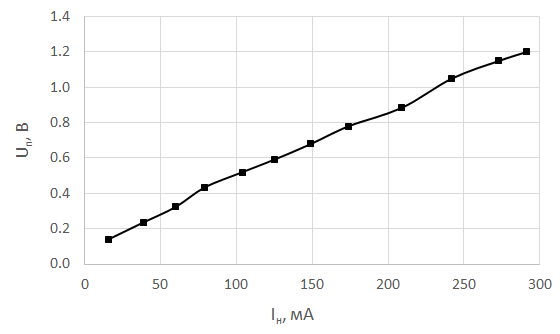
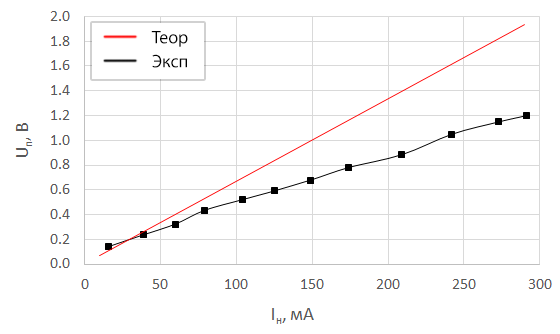
theoretical dependencies

diff --git a/lab3/lab3.tex b/lab3/lab3.tex
@@ -85,7 +85,17 @@ U_\text{п max} = \frac{I_\text{н} \cdot \Delta t}{C\text{ф}} = \frac{120 \cdo
 
 \subsection{Аппроксимация}
 
-%TODO
+Для полученной экспериментальным путем ВАХ диода была выполнена аппроксимация с использованием уравнения Шокли:
+\begin{equation}
+I = I_0 (e^{\frac{U}{m \phi_t}} - 1).
+\end{equation}
+Для точек 
+$\{\Delta U=0.53\ \text{В}, I_\text{д}=29.3\ \text{мА}\}$ 
+и 
+$\{\Delta U=0.73\ \text{В}, I_\text{д}=269.3\ \text{мА}\}$ 
+из набора экспериментальных данных была получена система уравнений, решением которой являются значения 
+$I_0 = 7.99710 \cdot 10^{-5}$ А, $m =  3.47400$.
+
 
 \section{Экспериментально снятые зависимости}
 
@@ -136,7 +146,7 @@ U_\text{п max} = \frac{I_\text{н} \cdot \Delta t}{C\text{ф}} = \frac{120 \cdo
 
 \begin{figure}[H]
 	\begin{center}
-		\includegraphics[width=15cm,height=9cm]{img/1}
+		\includegraphics[width=15cm]{img/1}
 		\caption{Эксперементальная ВАХ полупроводникового диода}
 		\label{g:1} % название для ссылок внутри кода
 	\end{center}
@@ -172,7 +182,7 @@ U_\text{п max} = \frac{I_\text{н} \cdot \Delta t}{C\text{ф}} = \frac{120 \cdo
 
 \begin{figure}[H]
 	\begin{center}
-		\includegraphics[width=15cm,height=9cm]{img/2}
+		\includegraphics[width=15cm]{img/2}
 		\caption{Зависимость пульсации напряжения от силы тока нагрузки для однополупериодного выпрямителя}
 		\label{g:2} % название для ссылок внутри кода
 	\end{center}
@@ -180,7 +190,7 @@ U_\text{п max} = \frac{I_\text{н} \cdot \Delta t}{C\text{ф}} = \frac{120 \cdo
 
 \begin{figure}[H]
 	\begin{center}
-		\includegraphics[width=15cm,height=6.5cm]{img/3}
+		\includegraphics[width=15cm]{img/3}
 		\caption{Зависимость напряжения нагрузки от силы тока нагрузки для однополупериодного выпрямителя}
 		\label{g:3} % название для ссылок внутри кода
 	\end{center}
@@ -188,13 +198,13 @@ U_\text{п max} = \frac{I_\text{н} \cdot \Delta t}{C\text{ф}} = \frac{120 \cdo
 
 
 
-Вычислим $U_\text{н}$ при $I_\text{н}$ = 120 мА. Для этого построим интерполяционный полином и посчитаем его значение в точке 120.
+%Вычислим $U_\text{н}$ при $I_\text{н}$ = 120 мА. Для этого построим интерполяционный полином и посчитаем его значение в точке 120.
 
-$U_\text{н}$ = 8.504 В
+%$U_\text{н}$ = 8.504 В
 
-Вычислим $U_\text{п max}$ при $I_\text{н}$ = 120 мА. Для этого построим интерполяционный полином и посчитаем его значение в точке 120.
+%Вычислим $U_\text{п max}$ при $I_\text{н}$ = 120 мА. Для этого построим интерполяционный полином и посчитаем его значение в точке 120.
 
-$U_\text{п max}$ = 1.116 В
+%$U_\text{п max}$ = 1.116 В
 
 \newpage
 \subsection{Двухполупериодный выпрямитель}
@@ -225,7 +235,7 @@ $U_\text{п max}$ = 1.116 В
 
 \begin{figure}[H]
 	\begin{center}
-		\includegraphics[width=15cm,height=8cm]{img/4}
+		\includegraphics[width=15cm]{img/4}
 		\caption{Зависимость пульсации напряжения от силы тока нагрузки для двухполупериодного вьыпрямителя}
 		\label{g:4} % название для ссылок внутри кода
 	\end{center}
@@ -239,13 +249,13 @@ $U_\text{п max}$ = 1.116 В
 	\end{center}
 \end{figure}
 
-Вычислим $U_\text{н}$ при $I_\text{н}$ = 120 мА. Для этого построим интерполяционный полином и посчитаем его значение в точке 120.
+%Вычислим $U_\text{н}$ при $I_\text{н}$ = 120 мА. Для этого построим интерполяционный полином и посчитаем его значение в точке 120.
 
-$U_\text{н}$ = 8.501 В
+%$U_\text{н}$ = 8.501 В
 
-Вычислим $U_\text{п max}$ при $I_\text{н}$ = 120 мА. Для этого построим интерполяционный полином и посчитаем его значение в точке 120.
+%Вычислим $U_\text{п max}$ при $I_\text{н}$ = 120 мА. Для этого построим интерполяционный полином и посчитаем его значение в точке 120.
 
-$U_\text{п max}$ = 0.574 В
+%$U_\text{п max}$ = 0.574 В
 
 \section{Погрешности}
 

diff --git a/lab3/diod.py b/lab3/diod.py
@@ -1,0 +1,44 @@
+# COPYRIGHT by YURIJ LEZHENIN
+
+from math import exp, log
+import numpy as np
+import scipy.optimize
+
+
+def function(p):
+    x, y = p
+    return x * (exp(0.53 / (y * 0.025875)) - 1) - 0.029, x * (exp(0.73 / (y * 0.025875)) - 1) - 0.269
+    # Точка 1: {0.53, 0.029}, Точка 2: {0.73, 0.269}
+    # 0.25875 = const
+
+
+i_0, m = scipy.optimize.fsolve(function, [10, 10])
+print(i_0, m)
+
+
+def shokli_i(u):
+    return i_0 * (exp(u / (m * 0.025875)) - 1)
+
+
+def shokli_u(i):
+    return log((i / i_0 + 1), exp(1)) * (m * 0.025875)
+
+
+f = open('d_vac.csv', 'w')
+f.write('u, i \n')
+for u in np.arange(0.3, 0.75, 0.03):
+    f.write(str(u) + ', ' + str(shokli_i(u) * 1000) + '\n')
+
+f = open('theo_u(i)_1.csv', 'w')
+f.write('i, u \n')
+for i in np.arange(0.01, 0.3, 0.02):
+    # U2 = 6.3
+    u = 6.3 * 1.41 - shokli_u(i) - 1 * i
+    f.write(str(i * 1000) + ', ' + str(u) + '\n')
+
+f = open('theo_u(i)_2.csv', 'w')
+f.write('i, u \n')
+for i in np.arange(0.01, 0.3, 0.02):
+    # U2 = 6.3
+    u = 6.3 * 1.41 - shokli_u(i) - 2 * i
+    f.write(str(i * 1000) + ', ' + str(u) + '\n')
